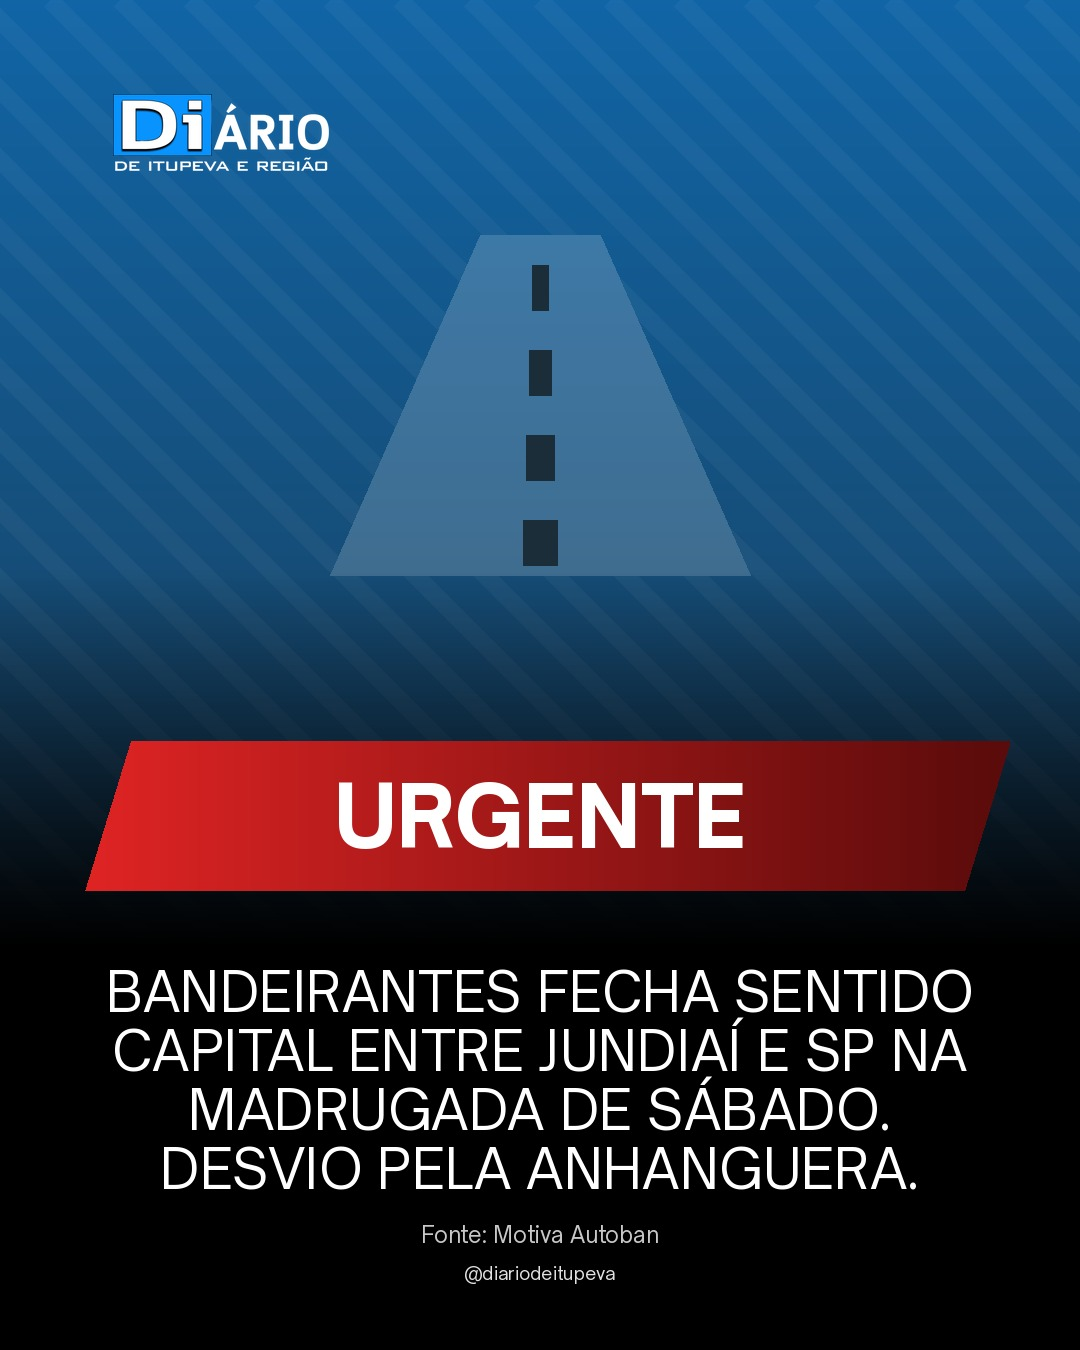
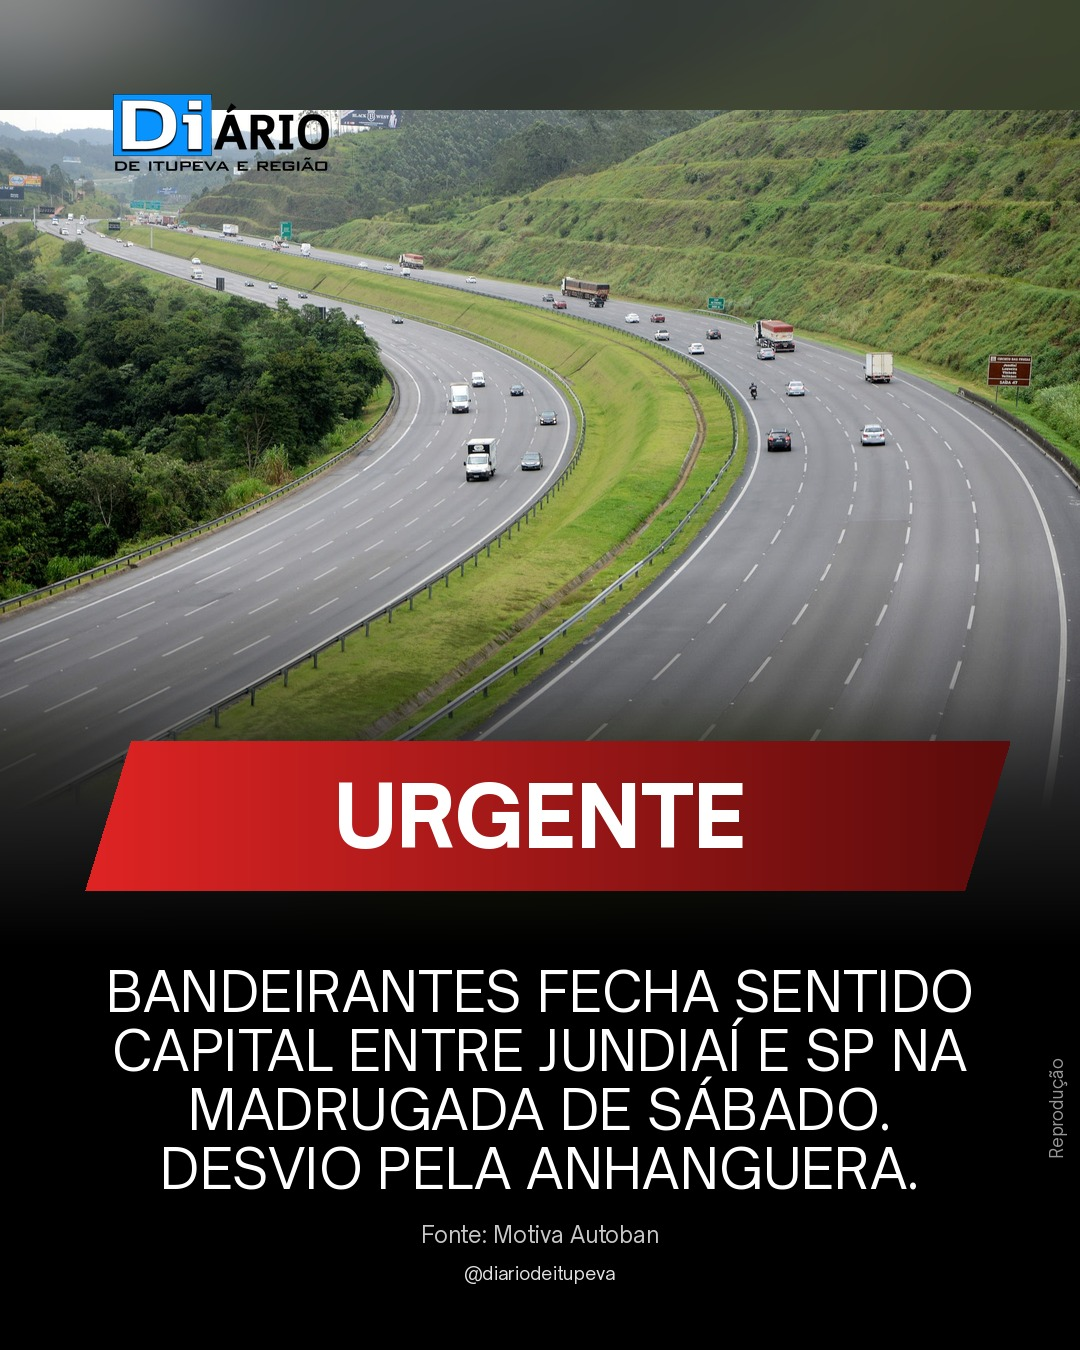
urgente: troca a foto da arte da Bandeirantes
Claude-Session: https://claude.ai/code/session_01V6KR7CspjAdaywtNMTD6h6

diff --git a/registro/historico.md b/registro/historico.md
@@ -28,5 +28,5 @@
 | 2026-11-12 | 18h | horário vazio: sem pauta local forte confirmada. Itupeva no radar: desvio de mercadorias (já postado às 12h), tentativa de furto em consultoria (JJ, fonte única, menor), trem iluminado de Natal (sem confirmação do roteiro por Itupeva). Plano B da região: vagas da Magalog (fonte única, não confirmada em busca) e Dino/escala 5x2 (repete a pauta de 11/11) | - | não postado (regra: pauta fraca não se força; sem fato confirmado). Obs.: já saíram 4 posts hoje (9h, urgente, 12h, 17h) |
 | 2026-11-13 | 9h | horário vazio: sem pauta forte confirmada no foco (clima, trânsito, política). Clima: queda de árvore em Jundiaí (madrugada de 12/11, Sampi/JJ, 20 mm, sem alagamento, Itupeva sem ocorrências) é de ontem e repete o assunto dos 9h de 11/11; previsão de hoje (Terra) não pôde ser aberta nem confirmada em busca. Política: decisão de Dino sobre a 6x1 (prometida até hoje) ainda não publicada nas buscas; ajuste fiscal no Senado sem confirmação em busca; Salles/secretários já saíram em 12/11 17h | - | não postado (regra: sem pauta repetida e sem fato sem confirmação). Obs.: sites de notícia bloqueados na rede da sessão. Pendência para o Visão: conferir a decisão de Dino sobre a 6x1 (até 13/11) |
 | 2026-11-13 | 9h (substitui o horário vazio) | Senado aprova texto-base do pacote fiscal do governo (PLP 299/2026), 45 a 31; economia de até R$ 60 bi em 2027 (Moretti); destaques provavelmente em 17/11, depois Câmara | Agência Brasil (link enviado pelo editor); Bloomberg Línea; Paraíba Online; iMirante | na fila, aprovado pelo Alef (pauta indicada por ele) (imagem ilustrativa: Plenário do Senado, mesa vazia, sem pessoas; Boaventuravinicius / Wikimedia Commons CC BY-SA 4.0). Edith: aprovada (sem juízo político; fato atribuído; placar citado). Obs.: Agência Brasil bloqueada na sessão; fatos confirmados por busca na web (resumos de vários veículos). Não foi achada a posição da oposição; legenda traz só o placar. Pendência para o Visão: conferir votação dos destaques |
-| 2026-11-13 | URGENTE | Interdição total da pista Sul da Bandeirantes (km 46-13) na madrugada de 14 para 15/11, desvio pela Anhanguera (issue #17) | Motiva Autoban; Sampi Jundiaí | sem foto (ícone estrada); horário exato da operação não confirmado, legenda avisa | na fila, aprovado pelo Alef |
+| 2026-11-13 | URGENTE | Interdição total da pista Sul da Bandeirantes (km 46-13) na madrugada de 14 para 15/11, desvio pela Anhanguera (issue #17) | Motiva Autoban; Sampi Jundiaí | foto enviada pelo Alef (crédito: Reprodução); horário exato da operação não confirmado, legenda avisa | na fila, aprovado pelo Alef |
 | 2026-11-13 | 12h (rodada tardia, 12h25) | Mutirão tapa-buracos da Prefeitura de Jundiaí no sábado (14): dez caminhões, cerca de 40 profissionais, meta de cerca de 400 buracos, pedidos do 156 atendidos | Prefeitura de Jundiaí; Tribuna de Jundiaí; Sampi Jundiaí | na fila, aprovado pelo Peter (foto da matéria da Tribuna, operários trabalhando, sem vítimas). Edith: aprovada. Obs.: sites bloqueados na sessão, fatos confirmados por busca na web; bairros não divulgados; Dino/6x1 não confirmado em busca. Plano B: Prefeitura na Área (40 serviços, sábado 14) |
